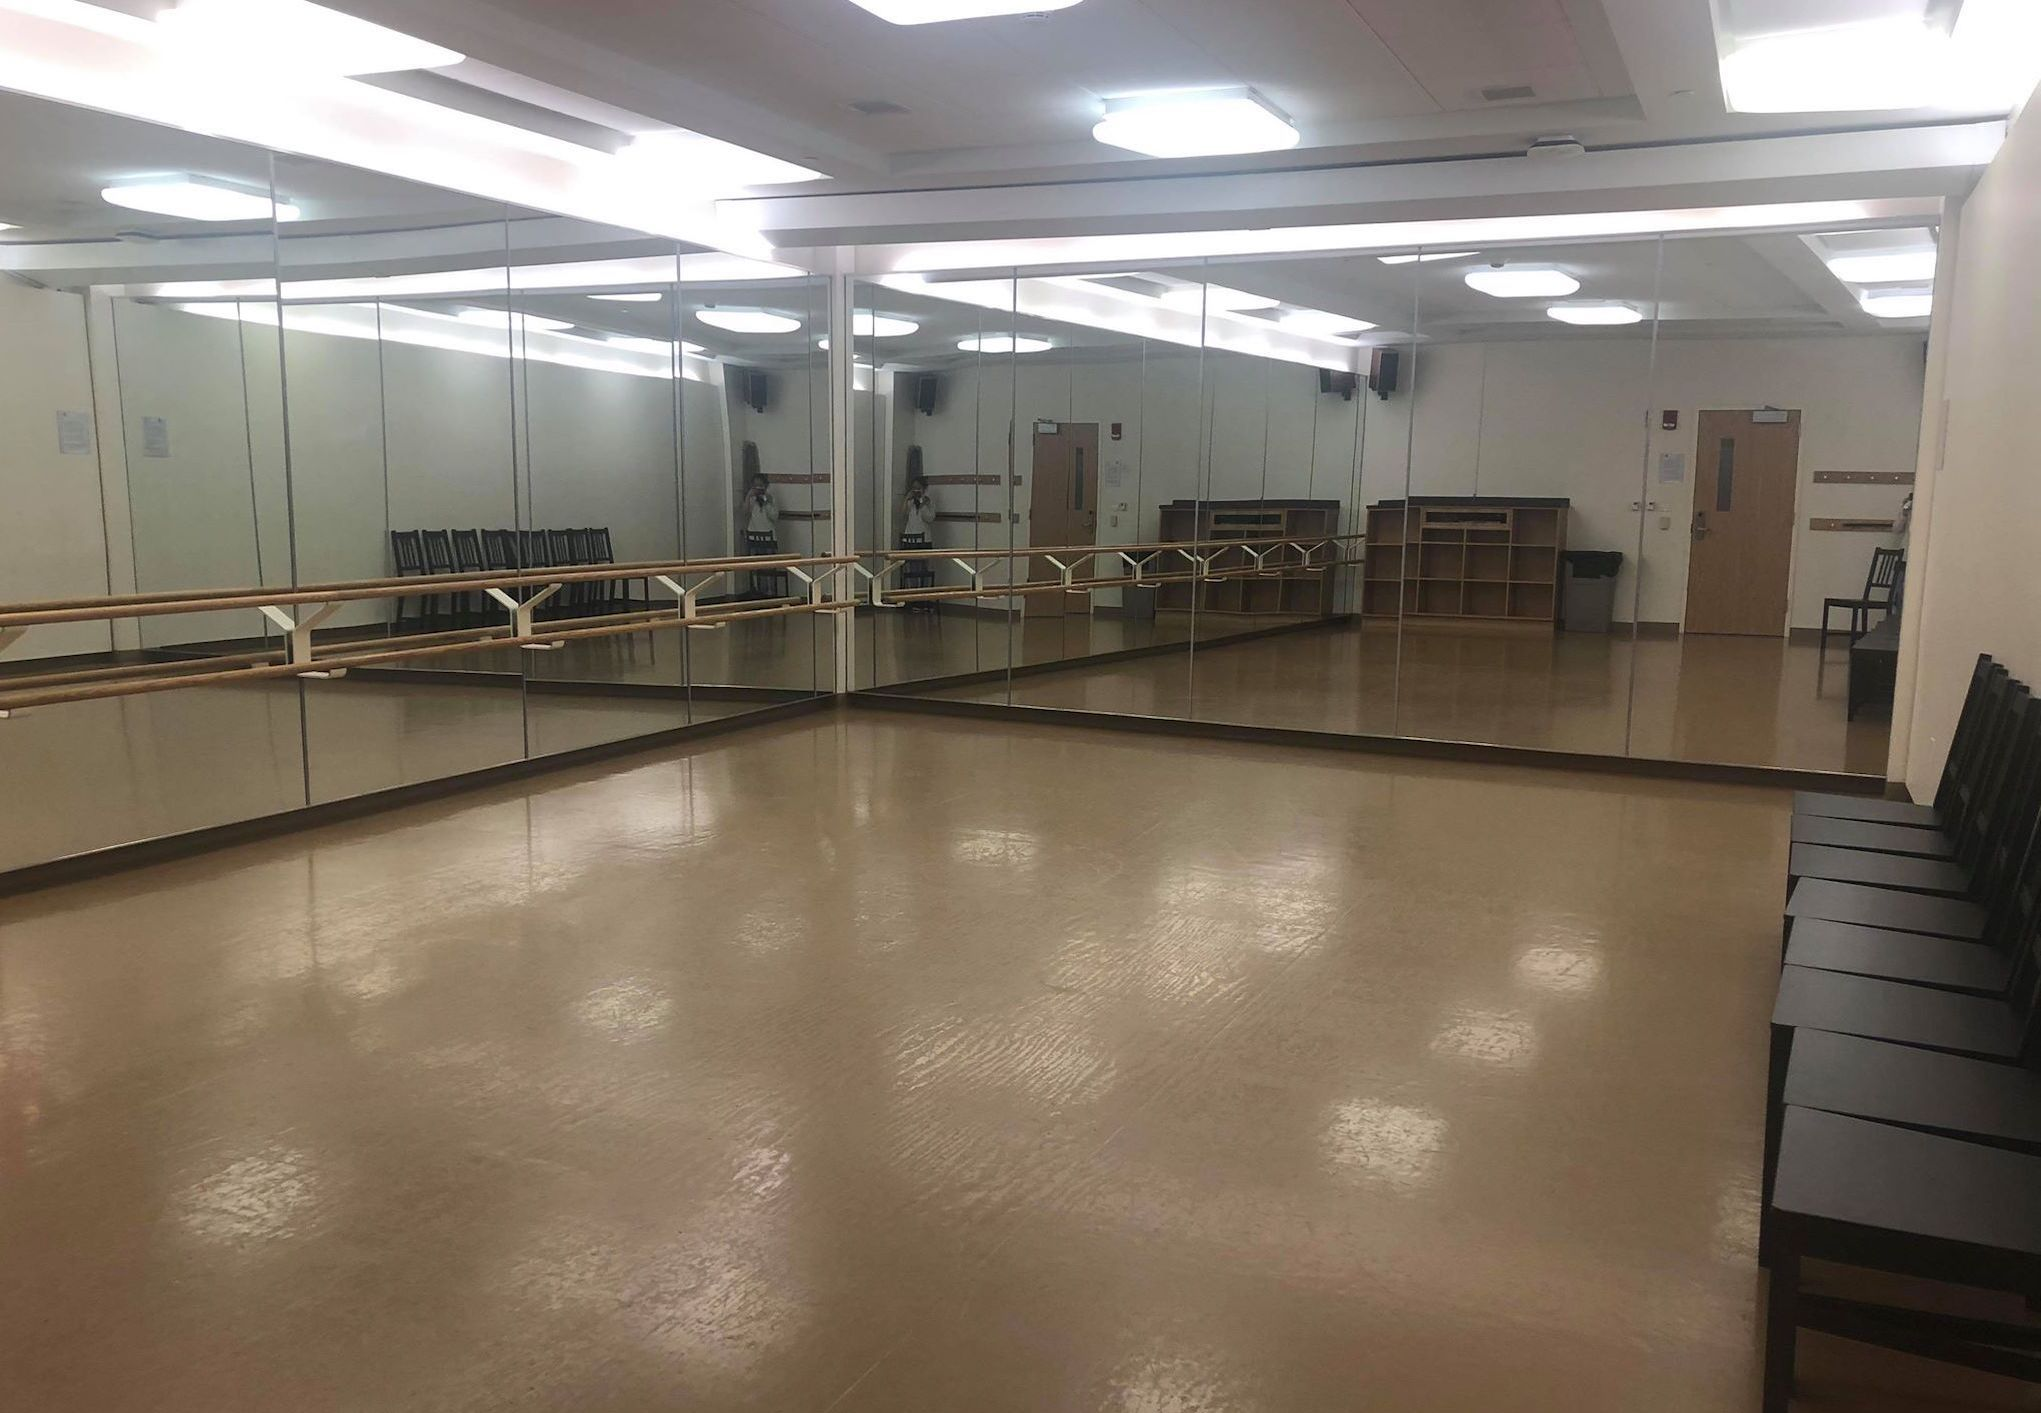
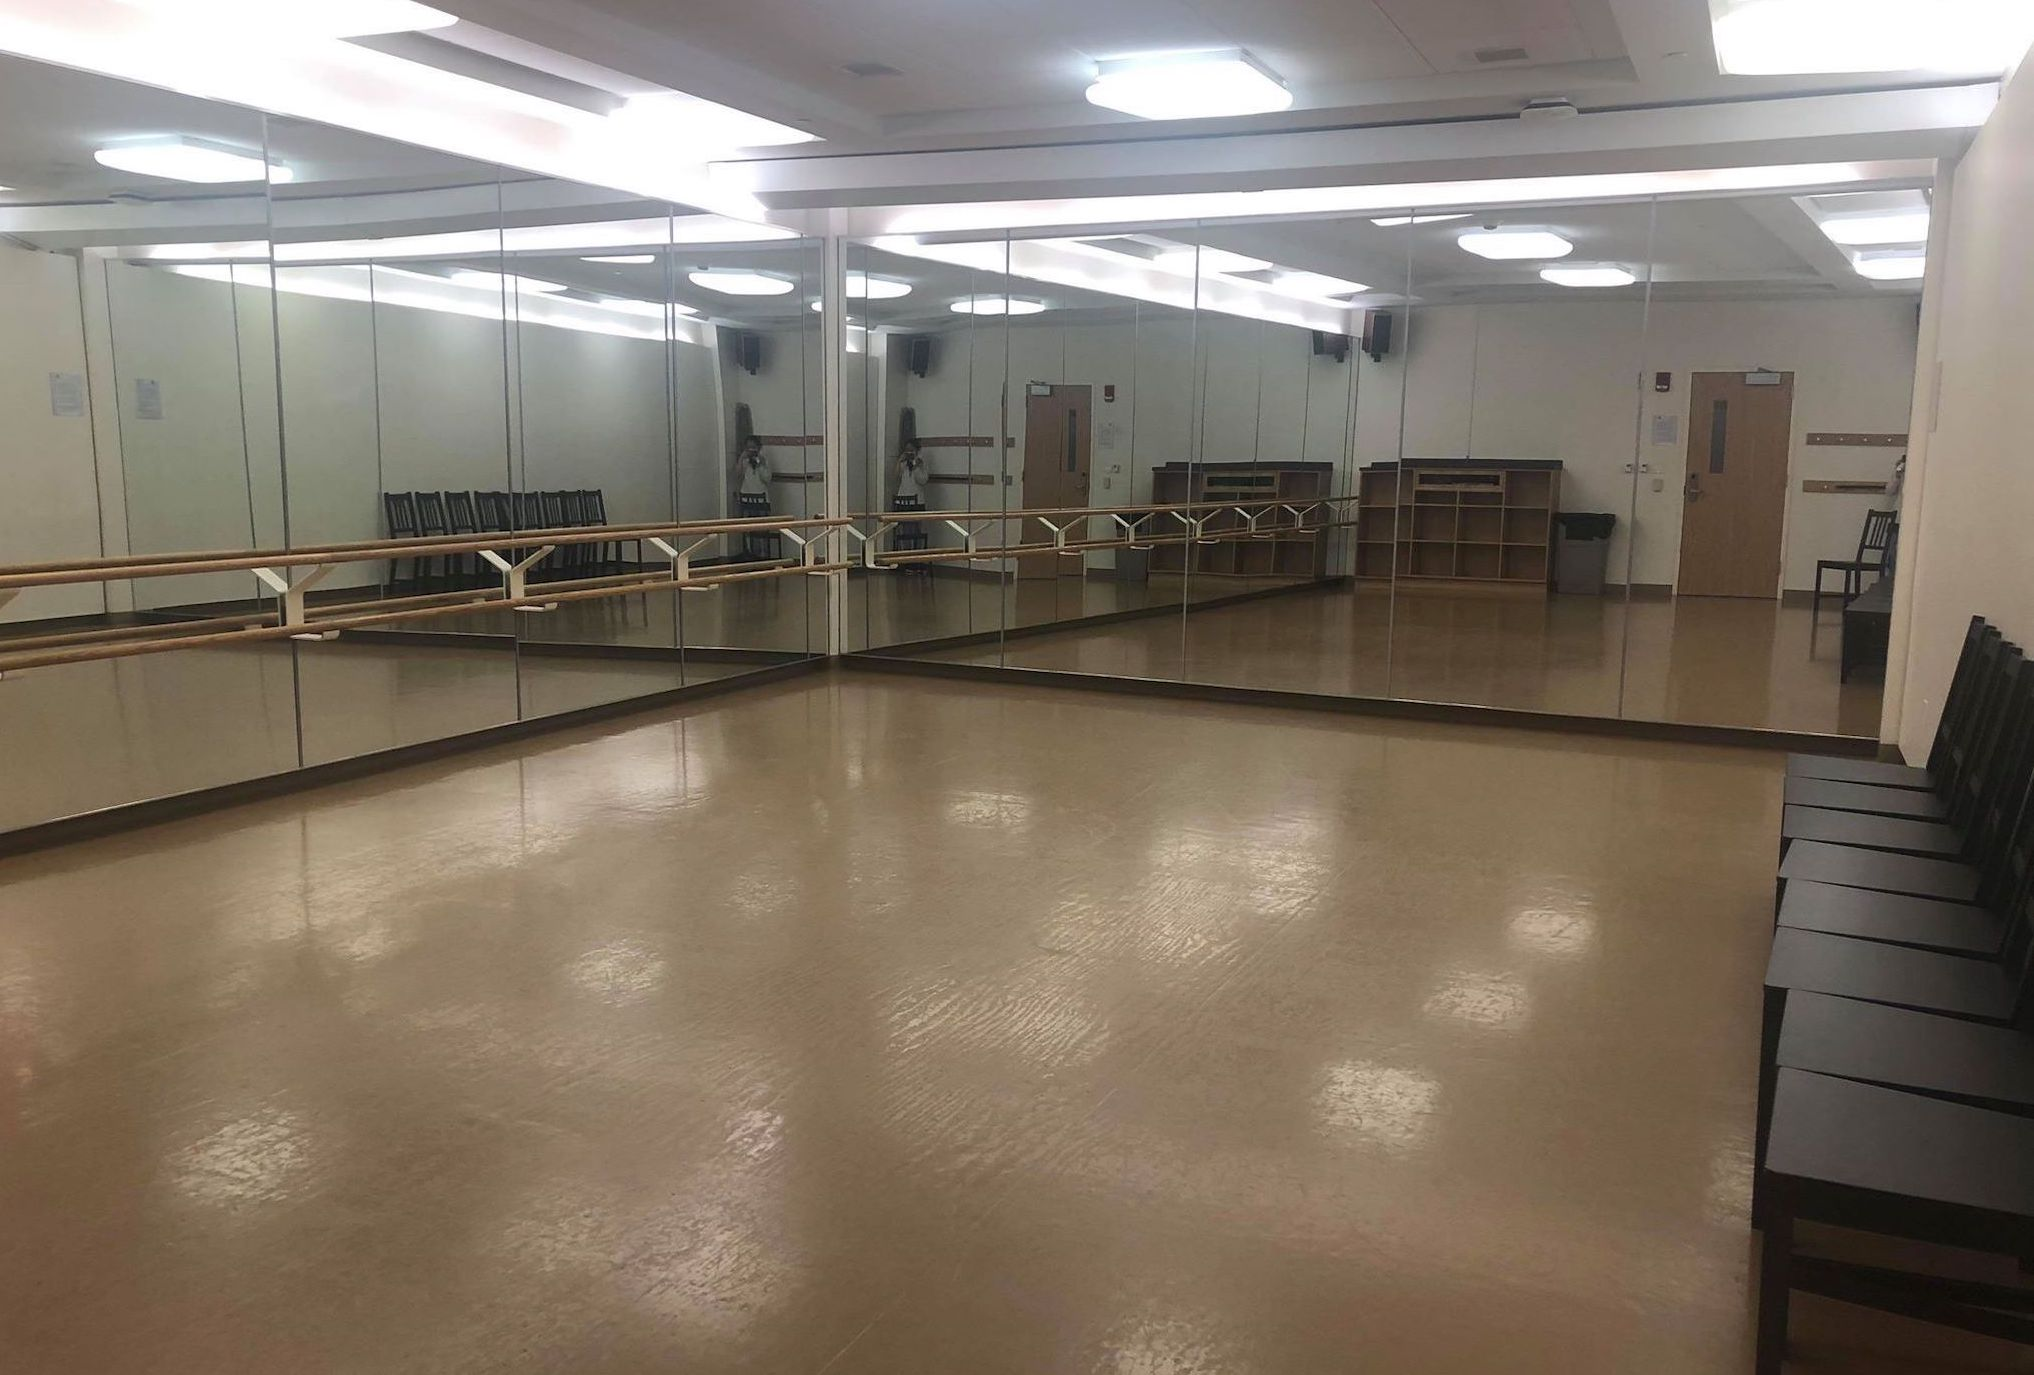
pictures and some css

diff --git a/pacApp/templates/pacApp/carousel.html b/pacApp/templates/pacApp/carousel.html
@@ -46,15 +46,15 @@
 						</article>
 
 						<article id = "bloomberg">
-							<a class="image featured"><img src="static/pacApp/images/pic02.jpg" alt="" /></a>
+							<a class="image featured"><img src="static/pacApp/images/bloomberg.jpg" alt="" /></a>
 							<header>
 								<h3><a>Bloomberg</a></h3>
 							</header>
-							<p>First floor in East Wing of Bloomberg hall. Equipped with sound system. Capacity: 25.</p>
+							<p>Basement floor in East Wing of Bloomberg hall. Equipped with sound system and tile floor. Capacity: 25.</p>
 						</article>
 
 						<article id = "dillon1">
-							<a class="image featured"><img src="static/pacApp/images/pic03.jpg" alt="" /></a>
+							<a class="image featured"><img src="static/pacApp/images/ddance.jpg" alt="" /></a>
 							<header>
 								<h3><a>Dillon Dance</a></h3>
 							</header>
@@ -62,7 +62,7 @@
 						</article>
 
 						<article id = "dillon2">
-							<a class="image featured"><img src="static/pacApp/images/pic04.jpg" alt="" /></a>
+							<a class="image featured"><img src="static/pacApp/images/dmar.jpg" alt="" /></a>
 							<header>
 								<h3><a>Dillon MAR</a></h3>
 							</header>
@@ -70,7 +70,7 @@
 						</article>
 
 						<article id = "dillon3">
-							<a class="image featured"><img src="static/pacApp/images/pic05.jpg" alt="" /></a>
+							<a class="image featured"><img src="static/pacApp/images/dmpr.jpg" alt="" /></a>
 							<header>
 								<h3>Dillon MPR</h3>
 							</header>
@@ -85,7 +85,7 @@
 							<p>Located in the basement of </br> Whitman South Baker Hall. </br> Capacity: 30. </p>
 						</article>
 						<article id="murphy">
-							<a class="image featured"><img src="static/pacApp/images/pic02.jpg" alt="" /></a>
+							<a class="image featured"><img src="static/pacApp/images/murphy.jpg" alt="" /></a>
 							<header>
 								<h3>Murphy Studio</h3>
 							</header>
@@ -99,7 +99,7 @@
 							<p>Commodo id natoque malesuada sollicitudin elit suscipit magna.</p>
 						</article>
 						<article id="ns2">
-							<a class="image featured"><img src="static/pacApp/images/pic02.jpg" alt="" /></a>
+							<a class="image featured"><img src="static/pacApp/images/nswarmup.jpg" alt="" /></a>
 							<header>
 								<h3>New South Warmup</h3>
 							</header>

diff --git a/pacApp/static/pacApp/assets/css/main.css b/pacApp/static/pacApp/assets/css/main.css
@@ -2238,6 +2238,14 @@ input, select, textarea {
 			padding: 0;
 		}
 
+		#header .button:after {
+        content: url(images/white-rt-triangle.png);
+        width: 8px;
+        height: 10px;
+        float: right;
+        margin: 1px 0 0 10px;
+        }
+
 		#header hr {
 			top: 1.5em;
 			margin-bottom: 3em;

diff --git a/pacApp/templates/pacApp/home.html b/pacApp/templates/pacApp/home.html
@@ -33,7 +33,7 @@
 								{% endif %}
 							</header>
 							<footer>
-								<div href="#openNow" class="button circled scrolly">Open Now</div>
+								<div href="#openNow" class="button circled scrolly">Book Now</div>
 							</footer>
 						</div>
 
